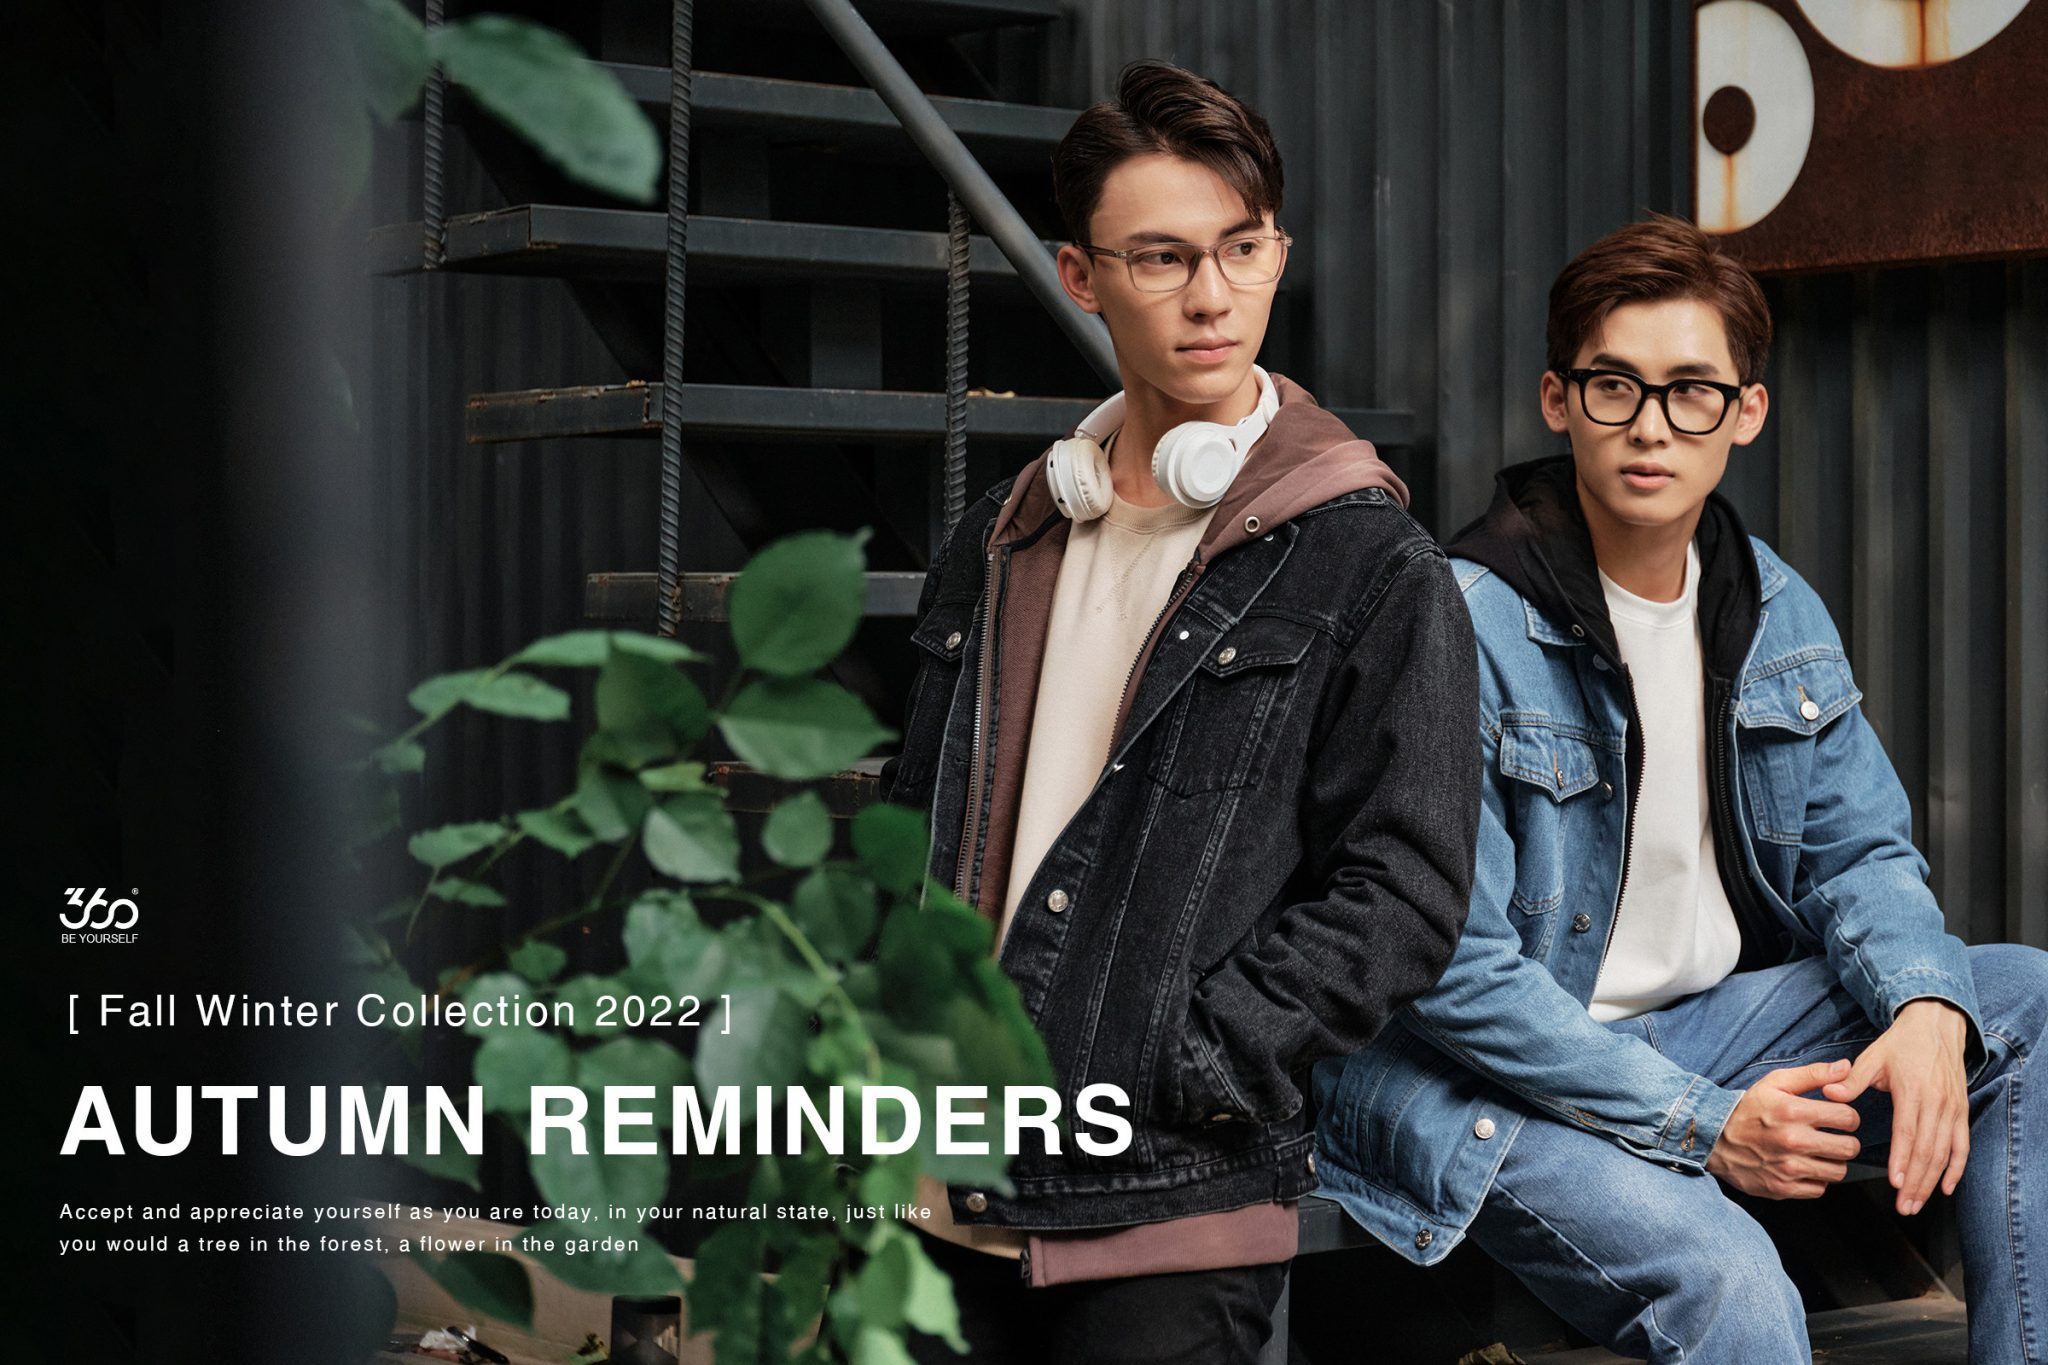
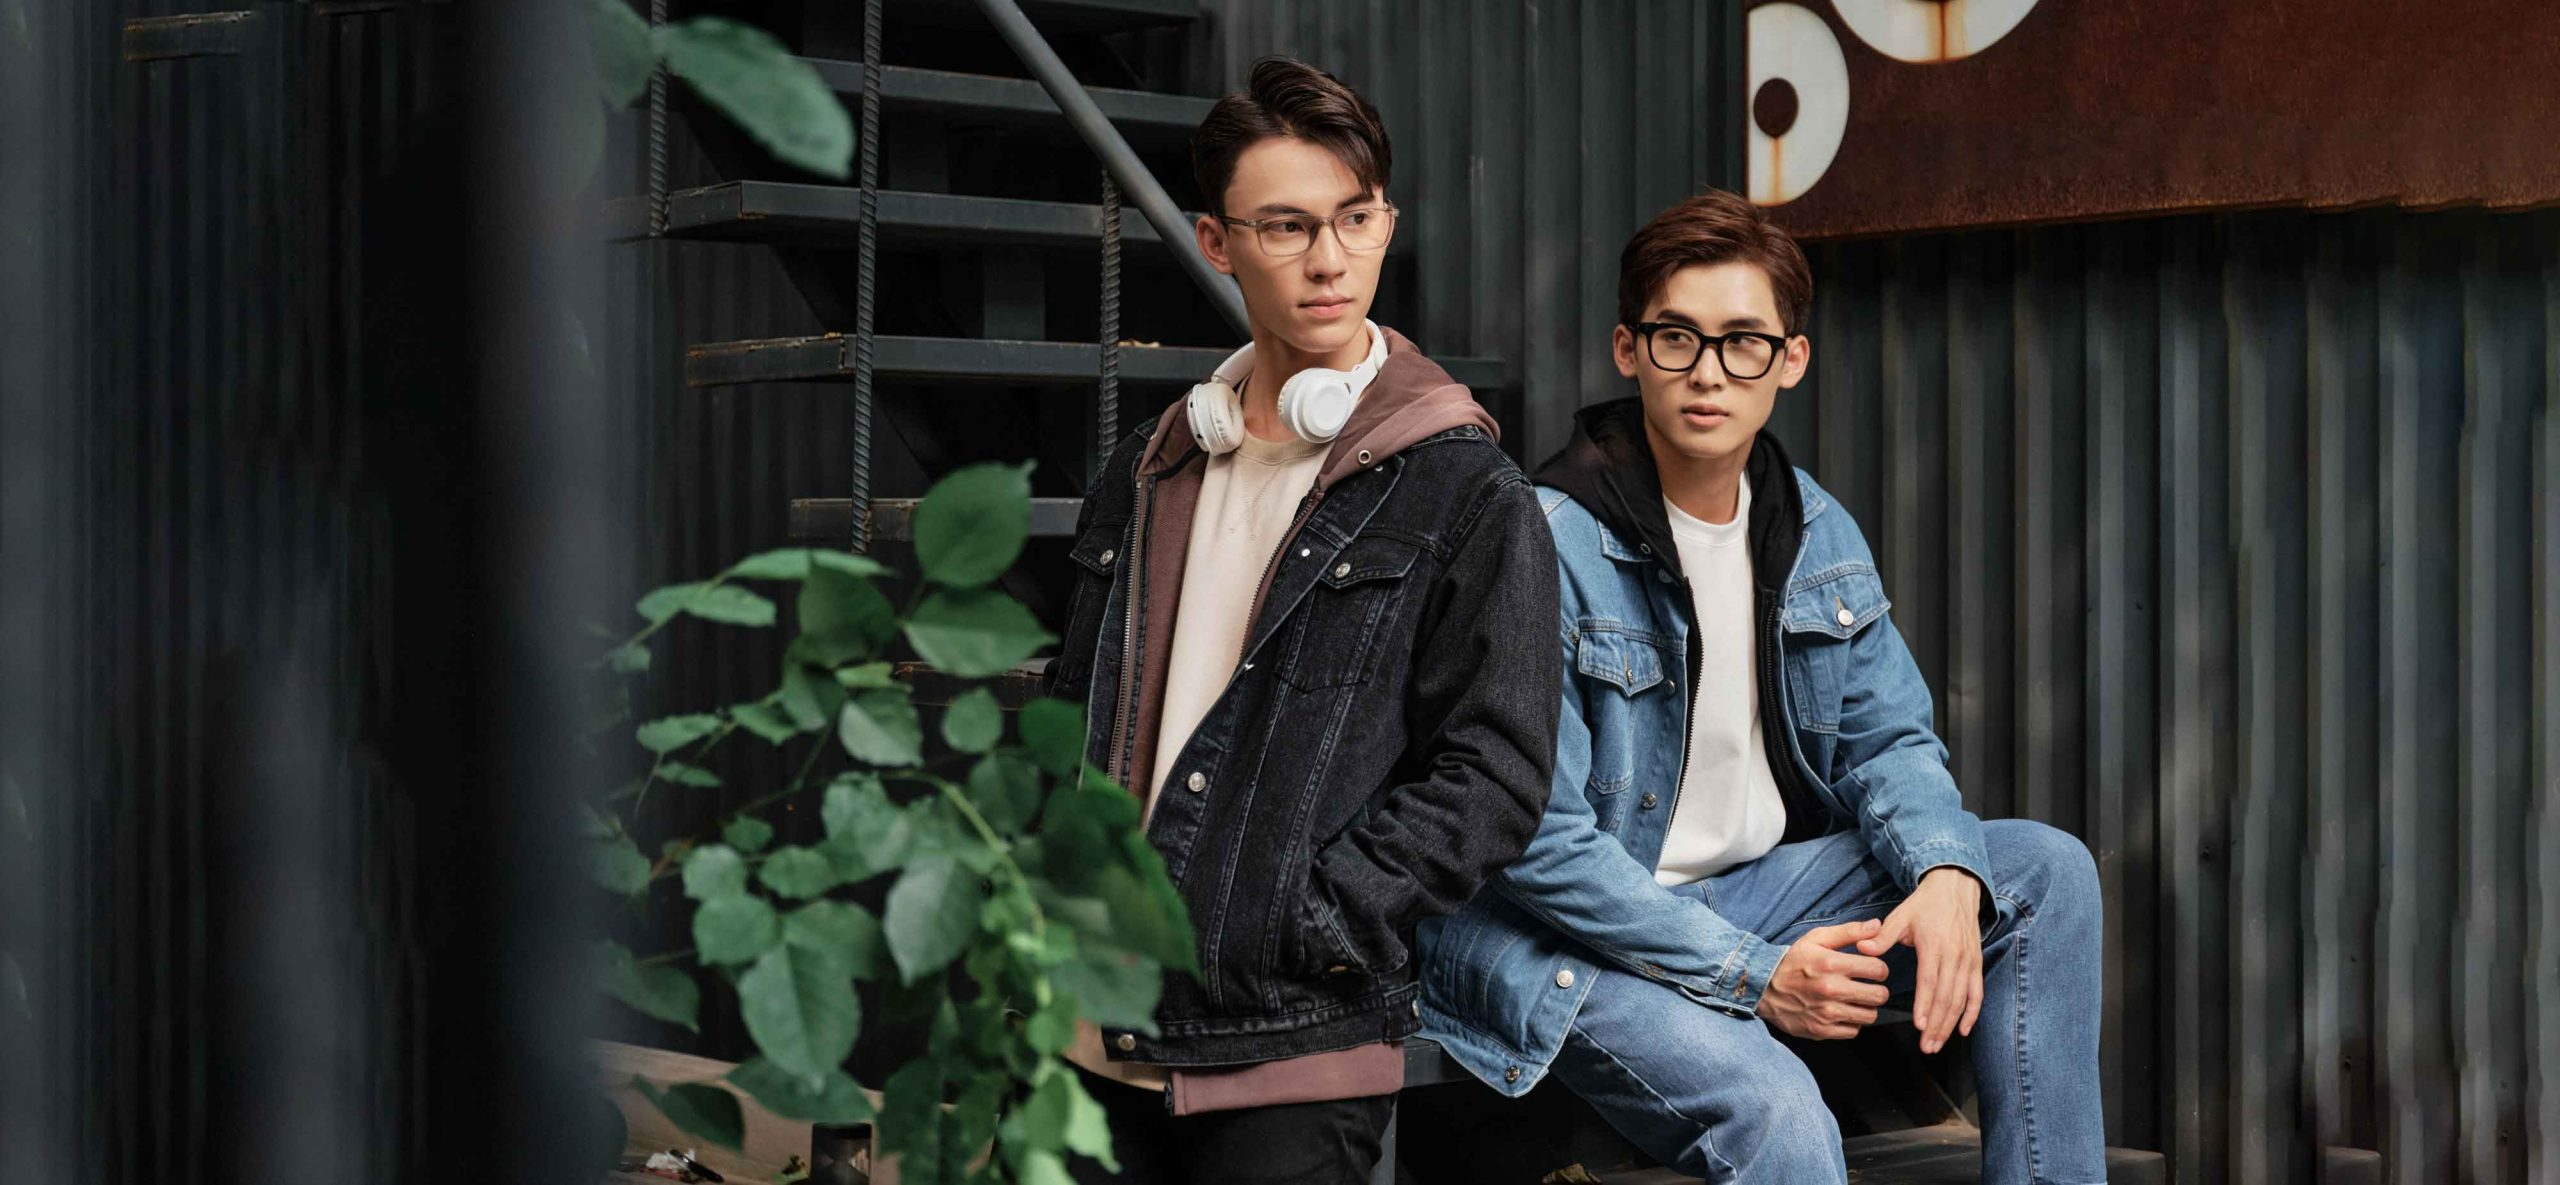
update

diff --git a/login.html b/login.html
@@ -13,6 +13,7 @@
       src="https://kit.fontawesome.com/b05105b352.js"
       crossorigin="anonymous"
     ></script>
+    <script src="./js/login.js"></script>
     <link rel="shortcut icon" href="img/logo.png" type="image/x-icon">
     <title>Tài khoản</title>
   </head>
@@ -76,23 +77,24 @@
       </div>
     </header>
     <!-----------------Đăng nhập------------------->
-    <div class="image">
+      <div class="group image">
+        <!-- <img class="image" src="./img/dang-nhap.jpg" alt=""> -->
         <div class="login-form">
             <div>
                 <h3>ĐĂNG NHẬP</h3>
-                <p>Trở thành thành viên của 360 Boutique <span><a style="color: blue;" href="./signup.html">Đăng ký ngay</a></span></p>
+                <p>Trở thành thành viên của 360 Boutique <a href="./signup.html"><span style="color: blue;">Đăng ký ngay</span></a></p>
                 <form action="">
                     <div class="form-group">
                         <label for="user">
                           <b>Tên tài khoản hoặc địa chỉ email <span style="color: red;">&#42</span></b>
                         </label>
-                        <input class="form-input" id="user" type="email"required>
+                        <input class="form-input js-user-login" id="user" type="text"required>
                     </div>
                     <div class="form-group">
                         <label for="pass">
                             <b>Mật khẩu <span style="color: red;">&#42</span></b>
                         </label>
-                        <input class="form-input" id="pass" type="password"required>
+                        <input class="form-input js-pass-login" id="pass" type="password"required>
                     </div>
                     <div class="sub-form-group">
                       <div class="sub1">
@@ -104,12 +106,12 @@
                       </div>
                     </div>
                     <div class="form-group">
-                        <button class="submit" type="submit">ĐĂNG NHẬP</button>
+                      <button onclick="checkUser()" class="submit">ĐĂNG NHẬP</button>
                     </div>
                 </form>
             </div>
           </div>
-    </div>
+      </div>
       
     <!-- -------------------------------------- -->
     <section class="app-container">

diff --git a/signup.html b/signup.html
@@ -13,6 +13,7 @@
       src="https://kit.fontawesome.com/b05105b352.js"
       crossorigin="anonymous"
     ></script>
+    <script src="./js/login.js"></script>
     <link rel="shortcut icon" href="img/logo.png" type="image/x-icon">
     <title>Tài khoản</title>
   </head>
@@ -76,26 +77,28 @@
       </div>
     </header>
     <!-----------------Đăng nhập------------------->
-    <div class="image">
+    <div class="group image">
+      <!-- <img class="image" src="./img/dang-nhap.jpg" alt=""> -->
         <div class="signup-form">
           <div>
             <h3>ĐĂNG KÝ</h3>
-            <p>Bạn đã có tài khoản? <span><a style="color: blue;" href="./login.html">Đăng nhập ngay</a></span></p>
+            <p>Bạn đã có tài khoản? <a href="./login.html"><span style="color: blue;">Đăng nhập ngay</span></a></p>
             <form action="">
               <div class="form-group">
                 <label for="username">
-                    <b>Địa chỉ email <span style="color: red;">&#42</span></b>
+                    <b>Địa chỉ email hoặc tên đăng nhập <span style="color: red;">&#42</span></b>
                 </label>
-                <input class="form-input" id="username" type="email"required>
+                <input class="form-input js-user-signup" id="username" type="text"required>
               </div>
               <div class="form-group">
                 <label for="password">
                     <b>Mật khẩu <span style="color: red;">&#42</span></b>
                 </label>
-                <input class="form-input" id="password" type="password"required>
+                <input class="form-input js-pass-signup" id="password" type="password"required>
+                <p style="color: red;" class="alert-user"></p>
               </div>
               <div class="form-group">
-                <button class="submit" type="submit">ĐĂNG KÝ</button>
+                <button onclick="addUser()" class="submit">ĐĂNG KÝ</button>
               </div>
             </form>
           </div>

diff --git a/js/login.js b/js/login.js
@@ -1,0 +1,46 @@
+const userList = JSON.parse(localStorage.getItem('userList'));
+
+console.log(userList);
+function addUser() {
+    const signupElement1 = document.querySelector('.js-user-signup');
+    const signupElement2 = document.querySelector('.js-pass-signup');
+    const name = signupElement1.value;
+    const pass = signupElement2.value;
+    let kt = true;
+    if(name == ''||pass ==''){
+        alert('Vui lòng nhập đầy đủ thông tin');
+        kt = false;
+    }
+    for(let i=0; i<userList.length; i++){
+        if(name == userList[i].username && pass == userList[i].password){
+            kt = false;
+            alert('Tài khoản đã được sử dụng');
+        }
+    }
+    if(kt){
+        userList.push({username: name, password: pass});
+        localStorage.setItem('userList', JSON.stringify(userList));
+        signupElement1.value = '';
+        signupElement2.value = '';
+        alert('Đăng ký thành công');
+        location.assign("./login.html")
+    }
+    console.log(userList);
+}
+function checkUser() {
+    const loginElement1 = document.querySelector('.js-user-login');
+    const loginElement2 = document.querySelector('.js-pass-login');
+    const name1 = loginElement1.value;
+    const pass1 = loginElement2.value; 
+    let kt = false;
+    for(let i=0; i<userList.length; i++){
+        if(name1 === userList[i].username && pass1 === userList[i].password){
+            kt = true;
+            alert('Đăng nhập thành công');
+            location.assign("./index.html");
+        }
+    }
+    if(!kt){
+        alert('Sai tên đăng nhập hoặc mật khẩu')
+    }
+}

diff --git a/css/login.css b/css/login.css
@@ -1,38 +1,37 @@
-.image{
+.group{
     display: flex;
-    max-width: 100%;
-    height: 800px;
+}
+.image{
     background-image: url(./../img/dang-nhap.jpg);
     background-size: cover;
+    background-position: 100% 100%;
+    background-repeat: no-repeat;
 }
 .login-form{
-    display: flex; 
-    margin: 150px;
-    max-width: 500px;
-    height: 430px;
+    display: block; 
+    margin: 10%;
+    max-width: (20%,100%,40%); 
     background-color: #fff;
     border-radius: 15px;
-    padding: 30px;
+    padding: 2%;
     line-height: 2.0;
 }
 .signup-form{
-    display: flex;
-    margin: 150px;
-    max-width: 500px;
-    height: 380px;
+    display: block;
+    margin: 10%;
+    max-width: (35%,100%,40%);
     background-color: #fff;
     border-radius: 15px;
-    padding: 30px;
+    padding: 2%;
     line-height: 2.0;
 }
 .forget-form{
-    display: flex;
-    margin: 150px;
-    max-width: 500px;
-    height: 320px;
+    display: block;
+    margin: 10%;
+    width: (20%, 100%, 20%);
     background-color: #fff;
     border-radius: 15px;
-    padding: 30px;
+    padding: 2%;
     line-height: 2.0;
 }
 .form-group{

diff --git a/forget_pass.html b/forget_pass.html
@@ -76,10 +76,12 @@
       </div>
     </header>
     <!-----------------Quên mật khẩu------------------->
-    <div class="image">
+    <div class="group image">
+      <!-- <img class="image" src="./img/dang-nhap.jpg" alt=""> -->
         <div class="forget-form">
           <div>
-            <p>Quên mật khẩu? Vui lòng nhập tên đăng nhập hoặc địa chỉ email. Bạn sẽ nhận được một liên kết tạo mật khẩu mới qua email.</p>
+            <p>Quên mật khẩu? Vui lòng nhập tên đăng nhập hoặc địa chỉ email. </p>
+            <p>Bạn sẽ nhận được một liên kết tạo mật khẩu mới qua email.</p>
             <form action="">
               <div class="form-group">
                 <label for="user">
